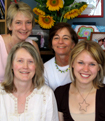
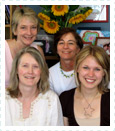
GS-3688

diff --git a/src/webapp/res/css/community/registration/communityLanding.css b/src/webapp/res/css/community/registration/communityLanding.css
@@ -103,7 +103,3 @@ table#bottomContent div#commBlog {
 table#bottomContent td.right div#commBlog img {
     padding:0 0 5px 0;
 }
-
-table#bottomContent td.right div.leftImage img {
-    border:4px solid white;
-}
